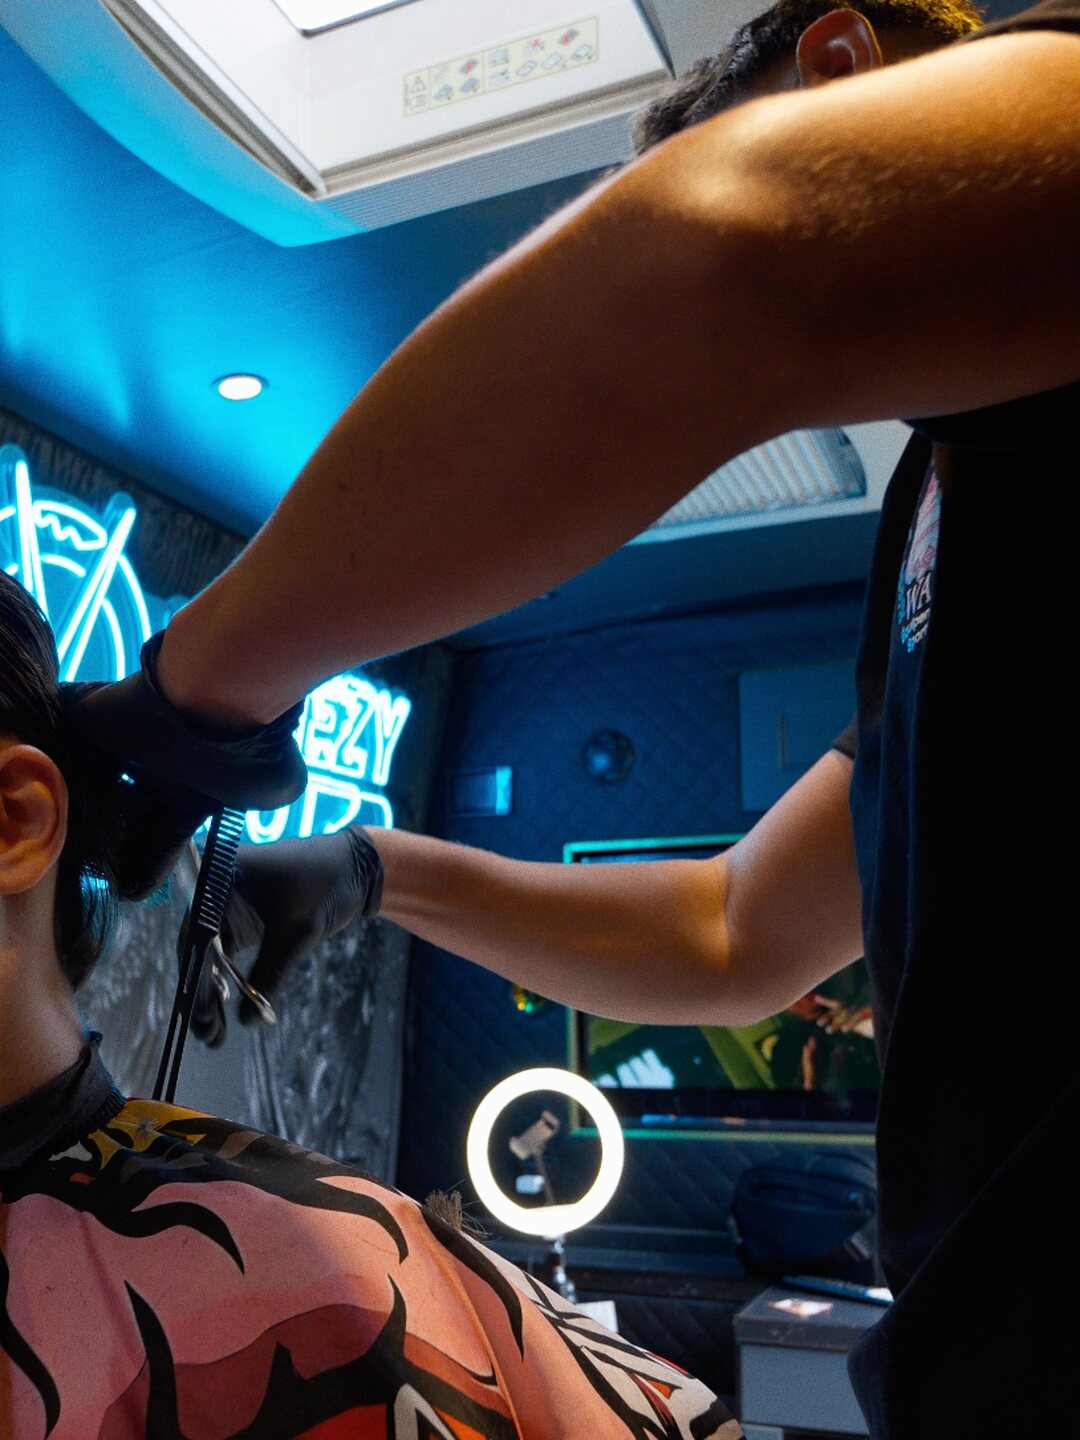
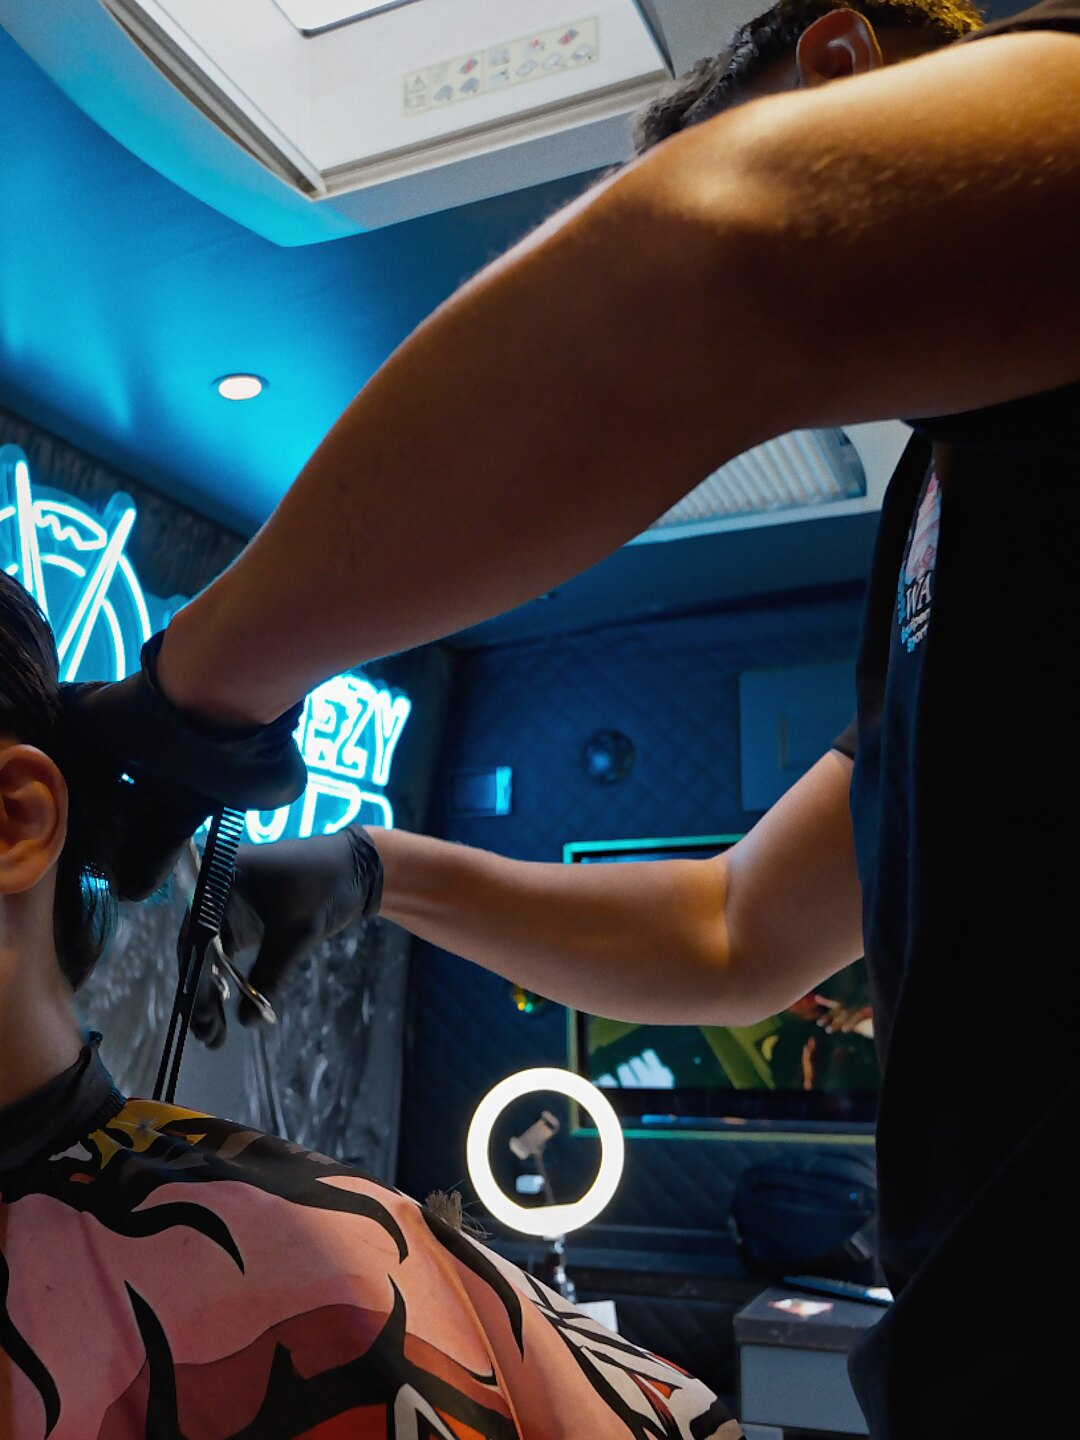
Brand Stories cover: cleaner upscaling, sharpening and grade
Both frames are now scaled in linear light (EWA RobidouxSharp) after a light
compression cleanup, then given edge sharpening, mild local contrast, a soft
per-frame vignette, a gentle filmic curve and fine grain. Same crops as before.
Image cache-busting: desktop ?v=5, phone ?v=4.

diff --git a/brand-stories.html b/brand-stories.html
@@ -16,8 +16,8 @@
 <link rel="preconnect" href="https://fonts.googleapis.com">
 <link rel="preconnect" href="https://fonts.gstatic.com" crossorigin>
 <link rel="stylesheet" href="https://fonts.googleapis.com/css2?family=Anton&family=League+Gothic&family=Arimo:wght@400;500;600;700&display=swap">
-<link rel="preload" as="image" href="Images/Covers/brand-stories-mobile.jpg?v=3" media="(orientation: portrait)" fetchpriority="high">
-<link rel="preload" as="image" href="Images/Covers/brand-stories.jpg?v=4" media="(orientation: landscape)" fetchpriority="high">
+<link rel="preload" as="image" href="Images/Covers/brand-stories-mobile.jpg?v=4" media="(orientation: portrait)" fetchpriority="high">
+<link rel="preload" as="image" href="Images/Covers/brand-stories.jpg?v=5" media="(orientation: landscape)" fetchpriority="high">
 <link rel="stylesheet" href="assets/zfx.css?v=9">
 <script src="assets/zfx.js?v=10" defer></script>
 </head>
@@ -66,7 +66,7 @@
 <!-- Kapitel-Cover -->
 <section class="page-hero" aria-label="Brand Stories">
   <div class="page-hero-media" aria-hidden="true">
-    <picture><source media="(orientation: portrait)" srcset="Images/Covers/brand-stories-mobile.jpg?v=3"><img src="Images/Covers/brand-stories.jpg?v=4" alt="" fetchpriority="high" decoding="async" style="view-transition-name: w-brand;"></picture>
+    <picture><source media="(orientation: portrait)" srcset="Images/Covers/brand-stories-mobile.jpg?v=4"><img src="Images/Covers/brand-stories.jpg?v=5" alt="" fetchpriority="high" decoding="async" style="view-transition-name: w-brand;"></picture>
   </div>
   <div class="hud" aria-hidden="true">
     <i class="tl"></i><i class="tr"></i>

diff --git a/index.html b/index.html
@@ -167,7 +167,7 @@
       </a>
 
       <a href="brand-stories.html" class="stack-card zr" style="--i:1" data-cursor="Ansehen" aria-label="Brand Stories">
-        <picture><source media="(orientation: portrait)" srcset="Images/Covers/brand-stories-mobile.jpg?v=3"><img class="stack-img" src="Images/Covers/brand-stories.jpg?v=4" alt="" loading="lazy" decoding="async" style="view-transition-name: w-brand;"></picture>
+        <picture><source media="(orientation: portrait)" srcset="Images/Covers/brand-stories-mobile.jpg?v=4"><img class="stack-img" src="Images/Covers/brand-stories.jpg?v=5" alt="" loading="lazy" decoding="async" style="view-transition-name: w-brand;"></picture>
         <div class="stack-top"><span>02 / 06</span><ul class="tags"><li>Employer Branding</li><li>Brand Collabs</li></ul></div>
         <div class="stack-body">
           <div>

diff --git a/ugc.html b/ugc.html
@@ -222,7 +222,7 @@
 
 <!-- Nächstes Kapitel -->
 <a class="next zr" href="brand-stories.html" data-cursor="Weiter" aria-label="Nächstes Kapitel: Brand Stories">
-  <picture><source media="(orientation: portrait)" srcset="Images/Covers/brand-stories-mobile.jpg?v=3"><img src="Images/Covers/brand-stories.jpg?v=4" alt="" loading="lazy" decoding="async" style="view-transition-name: w-brand;"></picture>
+  <picture><source media="(orientation: portrait)" srcset="Images/Covers/brand-stories-mobile.jpg?v=4"><img src="Images/Covers/brand-stories.jpg?v=5" alt="" loading="lazy" decoding="async" style="view-transition-name: w-brand;"></picture>
   <span class="next-body">
     <span class="label">Nächstes Kapitel — 02 / 06</span>
     <span class="next-title">Brand<br>Stories</span>
